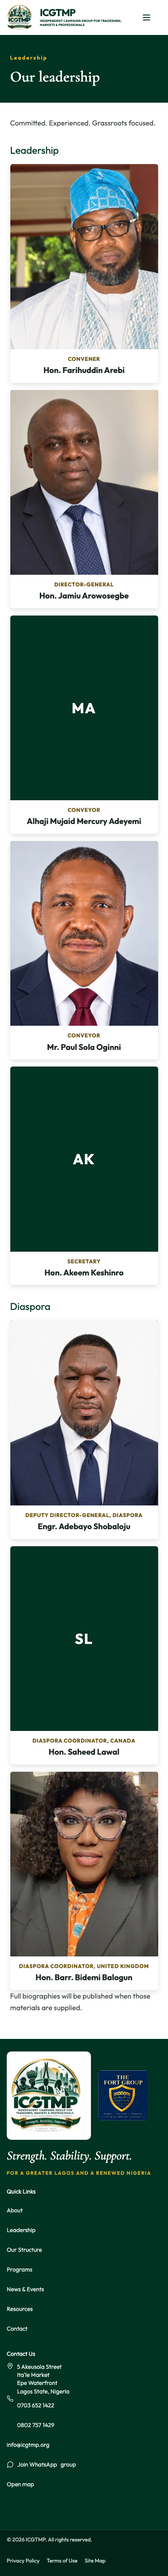
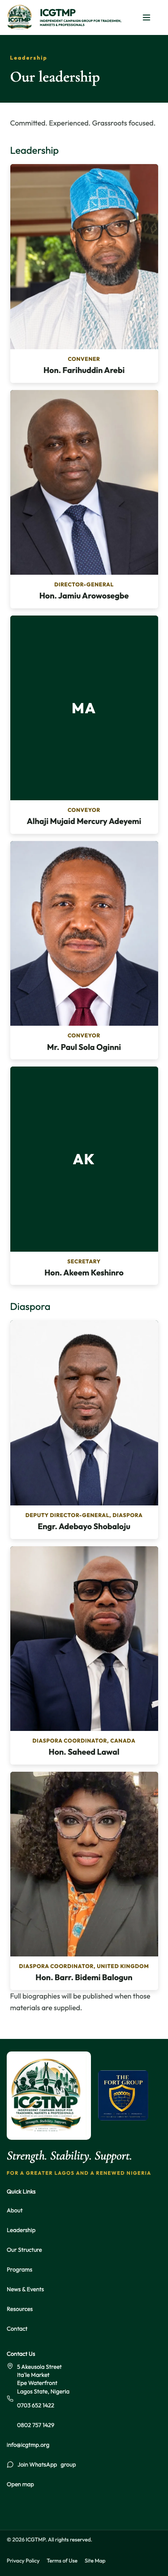
Use Hon. Saheed Lawal's portrait on the Canada diaspora card.

Changed region(s): [[0.0587, 0.5919, 0.9387, 0.6853]]

diff --git a/src/data/leaders.ts b/src/data/leaders.ts
@@ -99,6 +99,8 @@ export const leaders: Leader[] = [
     group: 'diaspora',
     order: 7,
     photo: '/leaders/saheed-lawal.webp',
+    objectPosition: '50% 42%',
+    objectPositionMobile: '50% 40%',
   },
   {
     slug: 'bidemi-balogun',

diff --git a/CONTENT_NEEDED.md b/CONTENT_NEEDED.md
@@ -13,4 +13,3 @@ These files are not in the site. The cards show a monogram until the portrait is
 
 - `/leaders/mujaid-adeyemi.webp` — Alhaji Mujaid Mercury Adeyemi, Conveyor
 - `/leaders/akeem-keshinro.webp` — Hon. Akeem Keshinro, Secretary
-- `/leaders/saheed-lawal.webp` — Hon. Saheed Lawal, Diaspora Coordinator, Canada
